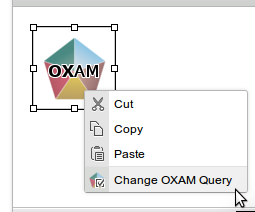
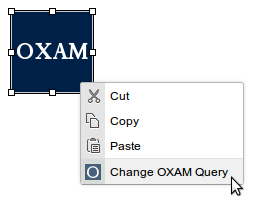
Fix oxam imags

Changed region(s): [[0.0277, 0.0, 1.0, 1.0]]

diff --git a/oxam.html b/oxam.html
@@ -7,7 +7,7 @@
   <ol>
     <li>
       <p>Click on the OXAM icon.</p>
-      <p><img src="images/oxam/show-icon.png"/></p>
+      <p class="icon"><img src="https://rawgit.com/ox-it/wl-ck-plugins/master/oxam/icons/oxam.png"/></p>
     </li>
     <li>
       <p>
@@ -51,7 +51,7 @@
         If the results are to your liking, simply click OK to embed the search at
         the cursor position.
       </p>
-      <p><img src="images/oxam/embed.png"/></p>
+      <p class="placeholder"><img src="https://rawgit.com/ox-it/wl-ck-plugins/master/oxam/icons/placeholder.png"/></p>
       <p>
         When the page is loaded, the user will see exactly the same results as you
         saw in the preview.
